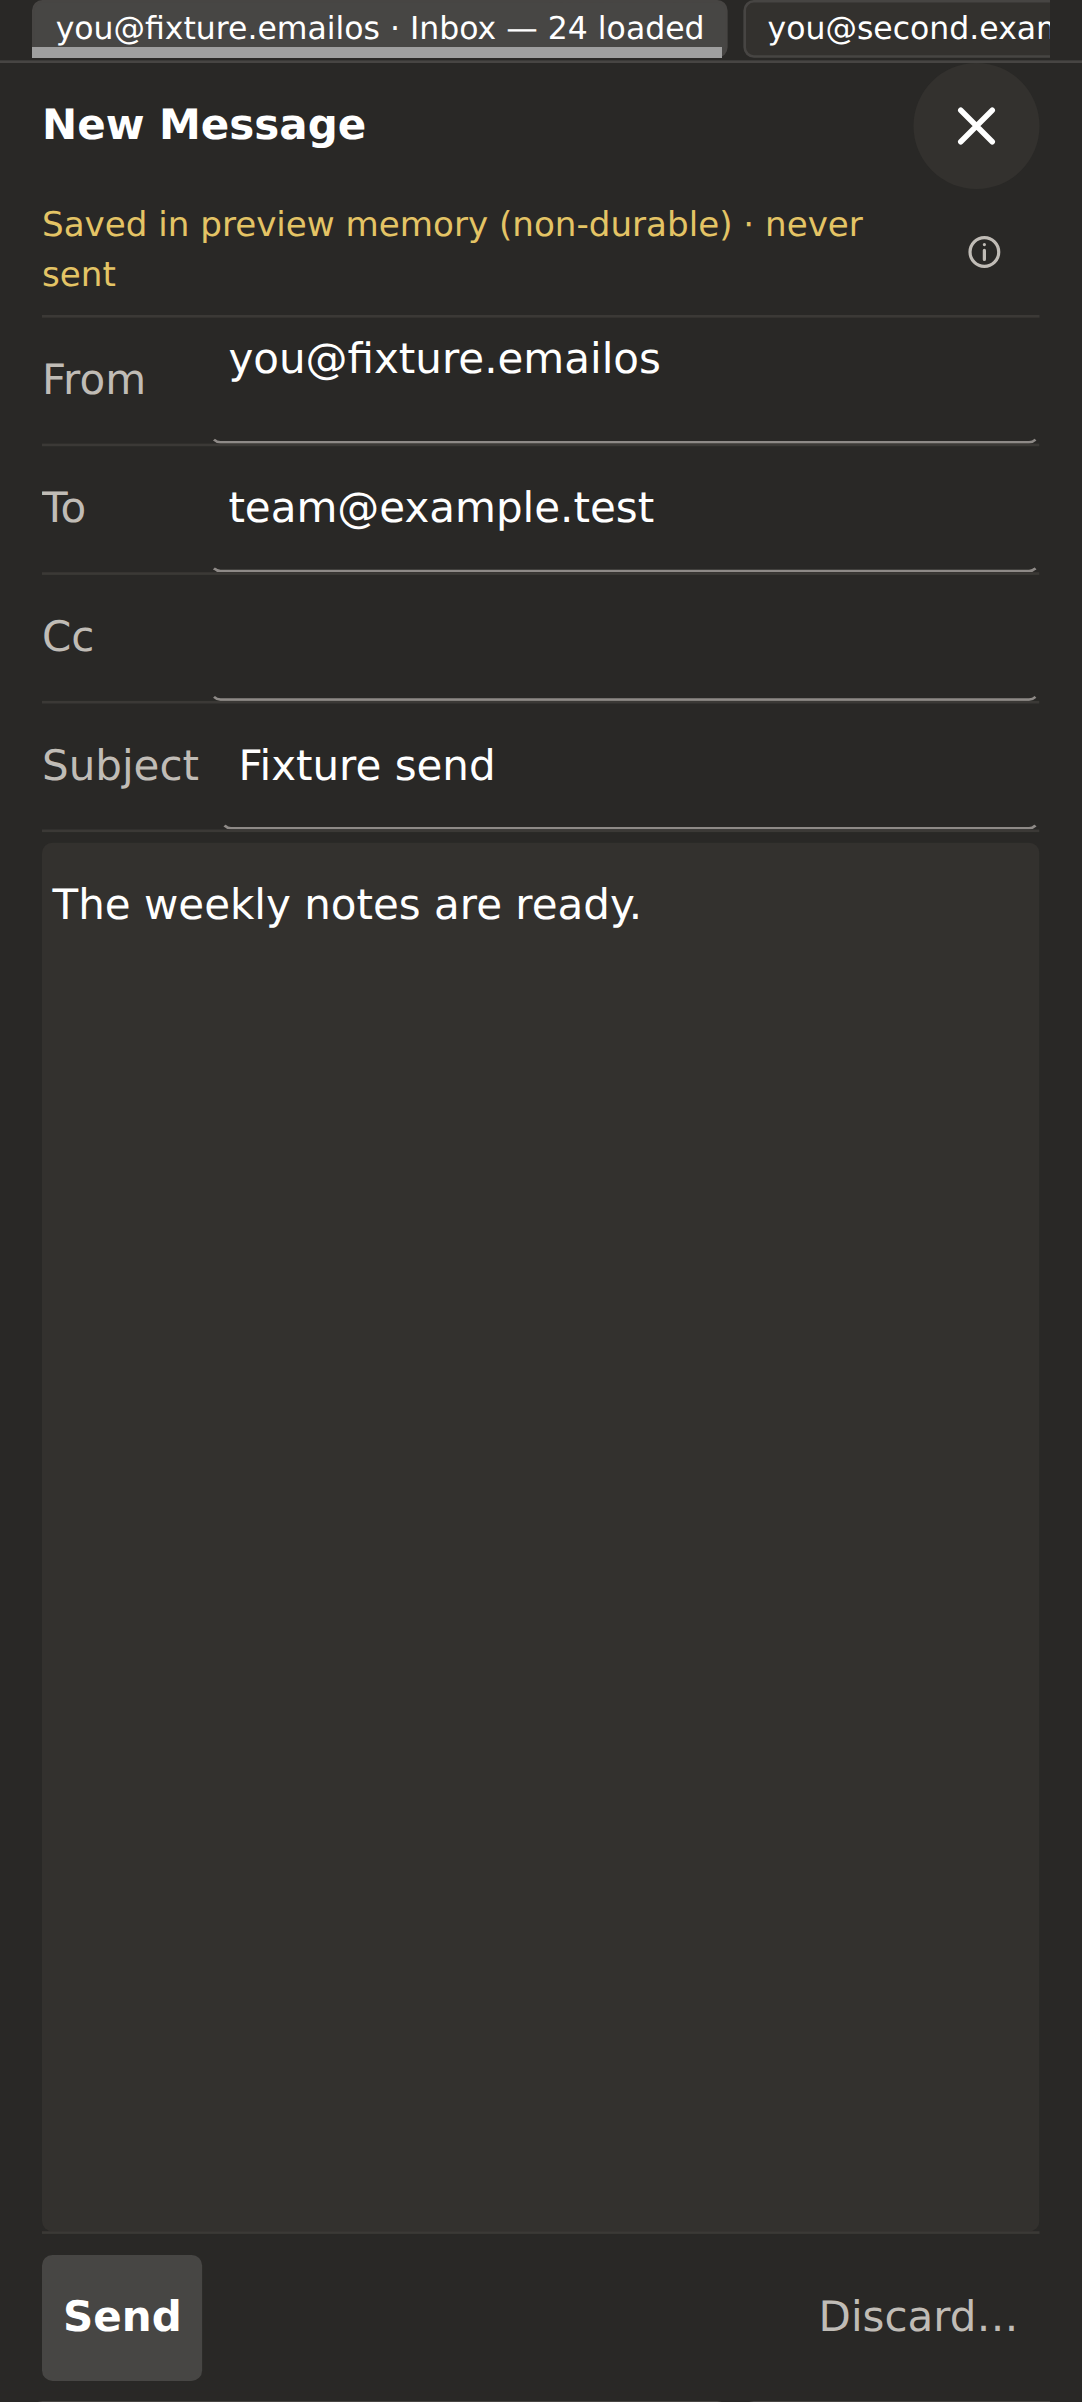
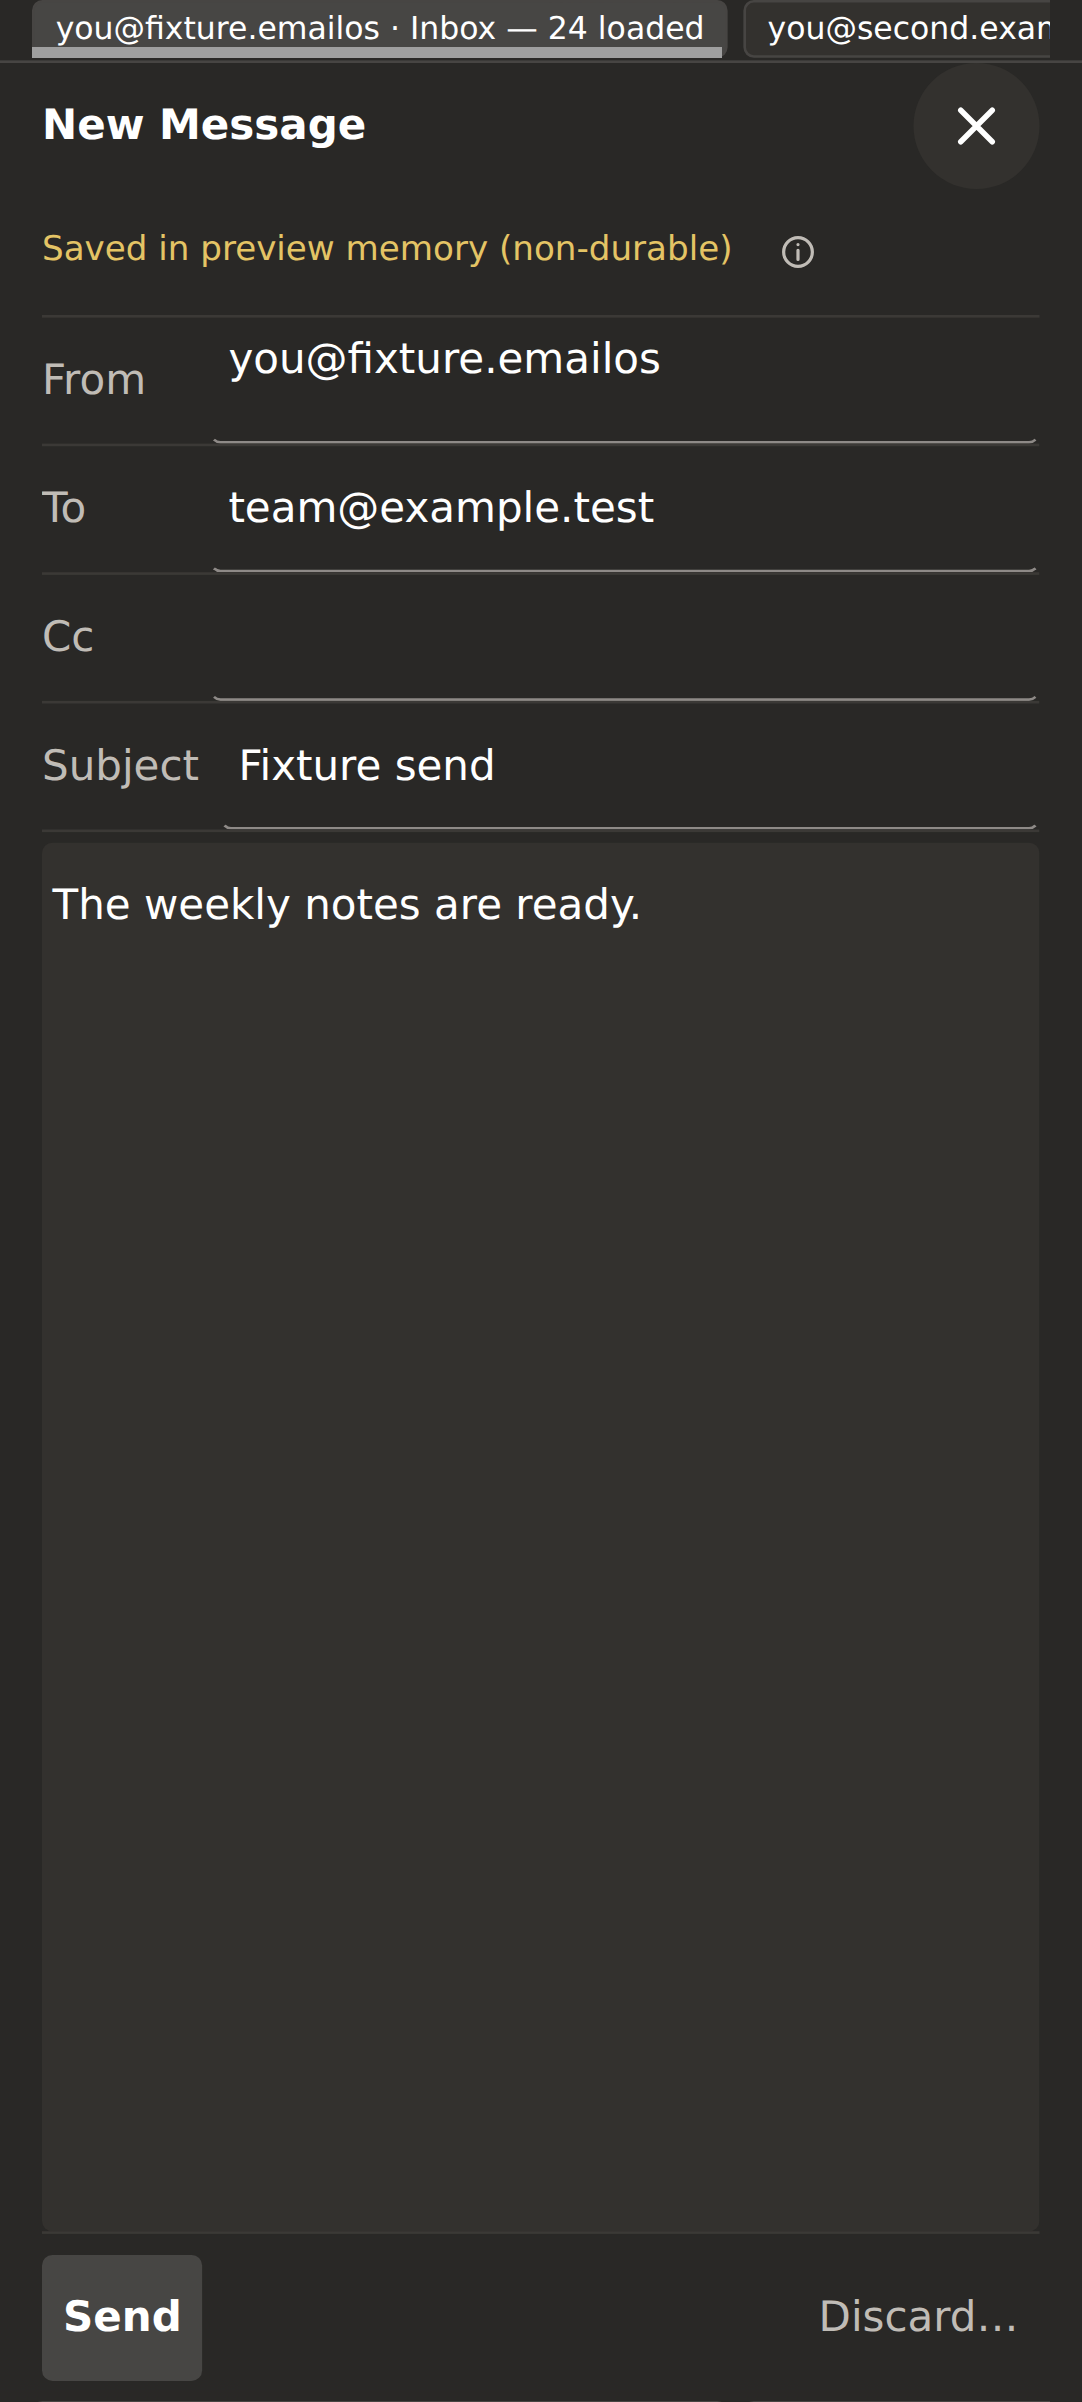
Explain changed reply subjects and capture confirmed send evidence

Changed region(s): [[0.0305, 0.0937, 0.671, 0.1249], [0.7015, 0.0937, 0.7625, 0.1249], [0.8845, 0.0937, 0.915, 0.1249]]

diff --git a/src/components/DraftEditorCore.vue b/src/components/DraftEditorCore.vue
@@ -45,6 +45,7 @@ const props = defineProps<{
   closeError: string | null;
   compact?: boolean;
   sender?: string | null;
+  replySubjectChanged?: boolean;
   sendAvailable?: boolean;
   sendBusy?: boolean;
   /** Which field receives focus when the editor appears (keyboard-first). */
@@ -104,11 +105,17 @@ const isReply = computed(() => props.variant === 'reply');
 /** Plain-language detail for the title and the body's hidden description. */
 const LOCAL_DETAIL = 'Local plain-text draft. Nothing is sent. Recipients are stored as typed and are not validated. Bcc, reply-all and rich text are not supported.';
 /** Settled states that read "<state> · never sent"; the first two stay calm (Ash). */
+const draftDetail = computed(() => props.sendAvailable
+  ? 'Local plain-text draft. Send checks the recipients before queueing.'
+  : LOCAL_DETAIL);
 const SETTLED_CALM = new Set(['Saved locally', 'Draft loaded from this device']);
 const SETTLED_NON_DURABLE = new Set(['Saved in preview memory (non-durable)', 'Loaded from preview memory (non-durable)']);
 
 const statusLine = computed(() => {
   const status = props.status;
+  if (props.sendAvailable) {
+    return { text: status || 'Local draft', calm: !status || SETTLED_CALM.has(status) };
+  }
   if (!status) return { text: 'Local draft · never sent', calm: true };
   if (SETTLED_CALM.has(status)) return { text: `${status} · never sent`, calm: true };
   if (SETTLED_NON_DURABLE.has(status)) return { text: `${status} · never sent`, calm: false };
@@ -271,7 +278,7 @@ watch(() => props.confirmDiscard || props.confirmReload, async (open) => {
           class="draft-status"
           :class="{ 'draft-status-calm': statusLine.calm }"
           data-test="draft-status"
-          :title="LOCAL_DETAIL"
+          :title="draftDetail"
         >{{ statusLine.text }}</p>
         <button
           type="button"
@@ -285,7 +292,7 @@ watch(() => props.confirmDiscard || props.confirmReload, async (open) => {
         <span class="visually-hidden" role="status" data-test="draft-status-announce">{{ announcement }}</span>
       </div>
     </div>
-    <p v-if="caveatOpen" :id="ids.caveat" class="composer-caveat" data-test="draft-caveat">{{ LOCAL_DETAIL }}</p>
+    <p v-if="caveatOpen" :id="ids.caveat" class="composer-caveat" data-test="draft-caveat">{{ draftDetail }}</p>
     <p v-if="props.error" role="alert" data-test="draft-error">{{ describe(props.error) }}</p>
     <p v-if="props.createError" role="alert" data-test="draft-create-error">{{ describe(props.createError) }}</p>
     <p v-if="props.closeError" role="alert" data-test="draft-close-error">{{ props.closeError }}</p>
@@ -343,7 +350,7 @@ watch(() => props.confirmDiscard || props.confirmReload, async (open) => {
           :disabled="fieldsDisabled()"
           @input="emit('setField', 'bodyText', ($event.target as HTMLTextAreaElement).value); fitBody()"
         ></textarea>
-        <span :id="ids.detail" class="visually-hidden" data-test="draft-local-detail">{{ LOCAL_DETAIL }}</span>
+        <span :id="ids.detail" class="visually-hidden" data-test="draft-local-detail">{{ draftDetail }}</span>
       </div>
     </div>
     <slot name="context" />
@@ -372,6 +379,7 @@ watch(() => props.confirmDiscard || props.confirmReload, async (open) => {
     <!-- Footer: one primary action. "Save and close" is the old Close editor: it
          still waits for the protected flush and stays open with the error if the
          flush fails. Esc does the same. There is no Send. -->
+    <p v-if="props.sendAvailable && props.replySubjectChanged" class="composer-caveat" role="note">This reply will start a new conversation.</p>
     <footer class="composer-footer">
       <button v-if="props.sendAvailable && props.sender" type="button" class="composer-primary" data-test="send-draft" :disabled="props.sendBusy || fieldsDisabled() || props.creating || !props.activeRef?.draftId" @click="emit('send')">{{ props.sendBusy ? 'Sending…' : 'Send' }}</button>
       <button v-if="!props.compact" type="button" class="composer-primary" data-test="close-composer" aria-keyshortcuts="Escape" :disabled="closeDisabled" @click="emit('closeEditor')">Save and close</button>

diff --git a/src/composables/useDrafts.ts b/src/composables/useDrafts.ts
@@ -56,6 +56,11 @@ export function useDrafts(client: MailClient, accountId: ComputedRef<string | nu
   const draftSubscriptionError = ref<MailError | null>(null);
   const activeRef = ref<DraftRef | null>(null);
   const activeSource = ref<DraftSource | null>(null);
+  const sourceSubject = ref<string | null>(null);
+  const replySubjectChanged = computed(() => {
+    const normalize = (subject: string) => subject.trim().replace(/^re:/i, '').trim();
+    return sourceSubject.value !== null && normalize(sourceSubject.value) !== normalize(content.value.subject);
+  });
   const content = ref<DraftContent>(copyContent(EMPTY_CONTENT));
   const revision = ref(0);
   const acknowledged = ref<DraftContent>(copyContent(EMPTY_CONTENT));
@@ -145,6 +150,7 @@ export function useDrafts(client: MailClient, accountId: ComputedRef<string | nu
     clearTimer();
     activeRef.value = null;
     activeSource.value = null;
+    sourceSubject.value = null;
     content.value = copyContent(EMPTY_CONTENT);
     acknowledged.value = copyContent(EMPTY_CONTENT);
     revision.value = 0;
@@ -253,6 +259,7 @@ export function useDrafts(client: MailClient, accountId: ComputedRef<string | nu
         const hasLocalEdits = !sameContent(beforeLoad, initialContent);
         acknowledged.value = copyContent(initialContent);
         activeSource.value = saved.source;
+        sourceSubject.value = saved.replyLink?.sourceSubject ?? null;
         createEnvelope = null;
         createError.value = null;
         creating.value = false;
@@ -532,6 +539,7 @@ export function useDrafts(client: MailClient, accountId: ComputedRef<string | nu
     const token = ++generation;
     activeRef.value = { accountId: accountId.value, draftId: '' };
     activeSource.value = source;
+    sourceSubject.value = null;
     content.value = copyContent(initialContent ?? EMPTY_CONTENT);
     acknowledged.value = copyContent(initialContent ?? EMPTY_CONTENT);
     revision.value = 0;
@@ -574,6 +582,7 @@ export function useDrafts(client: MailClient, accountId: ComputedRef<string | nu
         if (token !== generation || ref.accountId !== accountId.value || !stillWanted()) return false;
         activeRef.value = { ...draft.ref };
         activeSource.value = draft.source;
+        sourceSubject.value = draft.replyLink?.sourceSubject ?? null;
         content.value = copyContent(draft.content);
         acknowledged.value = copyContent(draft.content);
         revision.value = draft.revision;
@@ -619,6 +628,7 @@ export function useDrafts(client: MailClient, accountId: ComputedRef<string | nu
       content.value = copyContent(draft.content);
       acknowledged.value = copyContent(draft.content);
       activeSource.value = draft.source;
+      sourceSubject.value = draft.replyLink?.sourceSubject ?? null;
       conflict.value = false;
       error.value = null;
       hasReceipt.value = false;
@@ -715,6 +725,7 @@ export function useDrafts(client: MailClient, accountId: ComputedRef<string | nu
       retireSaveLane();
       activeRef.value = { ...receipt.ref };
       activeSource.value = saved.source;
+      sourceSubject.value = saved.replyLink?.sourceSubject ?? null;
       revision.value = saved.revision;
       acknowledged.value = copyContent(saved.content);
       hasReceipt.value = true;
@@ -1079,6 +1090,6 @@ export function useDrafts(client: MailClient, accountId: ComputedRef<string | nu
     isVisible, canCancelReplyPreparation, recoveryRequired,
     openingRefs, discardingRefs, transitioning, deletePending, dirty, hasUnsavedWork, statusLabel, refresh, openNew, openDraft, flush, flushAndClose,
     retrySave, reloadSaved, cancelReload, saveAsNew, askDiscard, discard, discardListed, cancelDiscard, cancelReplyPreparation, setContent, scheduleSave, setTransitioning,
-    retryDraftSubscription, retryClose, retryCloseSetup, admitSend,
+    retryDraftSubscription, retryClose, retryCloseSetup, admitSend, replySubjectChanged,
   };
 }

diff --git a/tests/drafts.component.test.ts b/tests/drafts.component.test.ts
@@ -512,7 +512,7 @@ describe('local plain-text drafts UI', () => {
     await flushPromises();
     expect(commands).toHaveLength(2);
     expect(commands[1]).toEqual(commands[0]);
-    expect((w.find('[data-test="draft-status"]').text())).toBe('Saved in preview memory (non-durable) · never sent');
+    expect((w.find('[data-test="draft-status"]').text())).toBe('Saved in preview memory (non-durable)');
     expect(await fake.getDraft(commands[0]!.ref)).toMatchObject({ revision: 2, content: { bodyText: 'saved but not yet verified' } });
   });
 
@@ -784,7 +784,7 @@ describe('local plain-text drafts UI', () => {
       const remaining = await fake.listDrafts();
       expect(remaining).toHaveLength(1);
       expect((await fake.getDraft(remaining[0]!.ref)).content.bodyText).toBe('latest exact recovery buffer');
-      expect(w.find('[data-test="draft-status"]').text()).toBe('Saved in preview memory (non-durable) · never sent');
+      expect(w.find('[data-test="draft-status"]').text()).toBe('Saved in preview memory (non-durable)');
       const unload = new Event('beforeunload', { cancelable: true }) as BeforeUnloadEvent;
       window.dispatchEvent(unload);
       expect(unload.defaultPrevented).toBe(false);
@@ -932,7 +932,7 @@ describe('local plain-text drafts UI', () => {
     else oldRetry.resolve({ ref: original.ref, revision: original.revision + 1, savedAt: '2025-01-01T00:00:00Z' });
     await flushPromises();
     expect(w.find('[data-test="draft-error"]').exists()).toBe(false);
-    expect(w.find('[data-test="draft-status"]').text()).toBe('Saved in preview memory (non-durable) · never sent');
+    expect(w.find('[data-test="draft-status"]').text()).toBe('Saved in preview memory (non-durable)');
     const unload = new Event('beforeunload', { cancelable: true }) as BeforeUnloadEvent;
     window.dispatchEvent(unload);
     expect(unload.defaultPrevented).toBe(false);
@@ -1357,7 +1357,7 @@ describe('local plain-text drafts UI', () => {
     window.dispatchEvent(event);
     expect(event.defaultPrevented).toBe(true);
     await flushPromises();
-    expect(fake.controls.listenerCount()).toBe(2);
+    expect(fake.controls.listenerCount()).toBe(1);
     expect(fake.controls.draftListenerCount()).toBe(1);
     expect(fake.controls.closeListenerCount()).toBe(1);
     w.unmount();

diff --git a/src/App.vue b/src/App.vue
@@ -2625,7 +2625,7 @@ const searchSyntaxEditHint = computed(() =>
                non-inert while composing. -->
           <Teleport v-if="composeCardOpen && !readerOpen" :to="appRoot ?? undefined" :disabled="layoutMode !== 'compact'">
           <ComposeCard
-            :send-available="sendAvailable" :send-busy="sendBusy" :sender="accountStatus?.account?.emailAddress" @send="sendDraft"
+            :send-available="sendAvailable" :reply-subject-changed="drafts.replySubjectChanged.value" :send-busy="sendBusy" :sender="accountStatus?.account?.emailAddress" @send="sendDraft"
             :compact="layoutMode === 'compact'"
             :recipient-label="composeRecipientLabel"
             :notice="cardNotice"
@@ -2814,7 +2814,7 @@ const searchSyntaxEditHint = computed(() =>
             <Teleport :to="appRoot ?? undefined" :disabled="layoutMode !== 'compact'">
             <ReplyComposer
               v-if="replyComposerOpen && readerOpen"
-              :send-available="sendAvailable" :send-busy="sendBusy" :sender="accountStatus?.account?.emailAddress" @send="sendDraft"
+              :send-available="sendAvailable" :reply-subject-changed="drafts.replySubjectChanged.value" :send-busy="sendBusy" :sender="accountStatus?.account?.emailAddress" @send="sendDraft"
               :compact="layoutMode === 'compact'"
               :recipient-label="replyRecipientLabel"
               :recipient-mailbox="replyRecipientMailbox"
@@ -2858,7 +2858,7 @@ const searchSyntaxEditHint = computed(() =>
                  like the reply composer above it. -->
             <Teleport v-if="composeCardOpen && readerOpen" :to="appRoot ?? undefined" :disabled="layoutMode !== 'compact'">
             <ComposeCard
-              :send-available="sendAvailable" :send-busy="sendBusy" :sender="accountStatus?.account?.emailAddress" @send="sendDraft"
+              :send-available="sendAvailable" :reply-subject-changed="drafts.replySubjectChanged.value" :send-busy="sendBusy" :sender="accountStatus?.account?.emailAddress" @send="sendDraft"
               :compact="layoutMode === 'compact'"
               :recipient-label="composeRecipientLabel"
               :notice="cardNotice"

diff --git a/tests/layout/mobile-screenshots.rendered.test.ts b/tests/layout/mobile-screenshots.rendered.test.ts
@@ -151,6 +151,20 @@ describe.skipIf(!chromePath || !outputDir)('compact layout review screenshots', 
       await shot(`${name}-send-undo`);
       await click('[data-test="send-notice"] button');
       await waitFor(`app.querySelector('[data-test="draft-subject"]')?.value === 'Fixture send'`, 'restored draft');
+      await click('[data-test="send-draft"]');
+      await waitFor(`app.querySelector('[data-test="send-notice"] button')`, 'second send hold');
+      await waitFor(`!app.querySelector('[data-test="send-notice"] button')`, 'window expiry');
+      if (compact) {
+        await click('[data-test="mobile-menu"]');
+        await chooseDrawerRow('Activity');
+      } else {
+        await click('[data-test="rail-activity"]');
+      }
+      await waitFor(`app.querySelector('[data-test="send-confirmed"] button')`, 'confirmed send');
+      await shot(`${name}-send-activity`);
+      await click('[data-test="send-confirmed"] button');
+      await waitFor(`app.querySelector('.reader')?.textContent?.includes('The weekly notes are ready.')`, 'sent conversation');
+      await shot(`${name}-send-confirmed`);
     }
     await viewport(PHONE_VIEWPORT.width, PHONE_VIEWPORT.height, true);
   }, 40_000);

diff --git a/tests/layout/mobile-app.test.ts b/tests/layout/mobile-app.test.ts
@@ -354,7 +354,7 @@ describe('App compact and regular frame', () => {
     expect(wrapper.get('[data-test="mobile-top-bar"]').attributes('inert')).toBeDefined();
     expect(wrapper.get('.app-main').attributes('inert')).toBeDefined();
     expect(wrapper.get('[data-test="mobile-bottom-region"]').attributes('inert')).toBeDefined();
-    expect(wrapper.get('[data-test="draft-status"]').text()).toContain('never sent');
+    expect(wrapper.get('[data-test="draft-status"]').text()).toBe('Saved in preview memory (non-durable)');
     expect(wrapper.find('[data-test="close-composer"]').exists()).toBe(false);
     expect(wrapper.get('[data-test="compose-sheet-close"]').attributes('aria-label')).toBe('Save and close');
     expect(wrapper.get('[data-test="compose-sheet-close"]').attributes('title')).toBe('Save and close');

diff --git a/tests/drafts/context.test.ts b/tests/drafts/context.test.ts
@@ -52,7 +52,7 @@ describe('entering and leaving the Drafts context', () => {
     expect(rail(w).attributes('aria-current')).toBe('page');
     expect(rail(w).attributes('aria-expanded')).toBeUndefined();
     expect(w.get('[data-test="central-surface"]').attributes('aria-label')).toBe('Drafts');
-    expect(w.get('[data-test="drafts-coverage"]').text()).toContain('Local to this device · never sent');
+    expect(w.get('[data-test="drafts-coverage"]').text()).toBe('Local to this device');
     expect(rows(w)).toHaveLength(2);
     expect(w.find('[data-test="draft-list"] li[aria-current="true"]').exists()).toBe(true);
     expect(document.activeElement).toBe(rows(w)[0]!.element);

diff --git a/src/components/ReplyComposer.vue b/src/components/ReplyComposer.vue
@@ -49,6 +49,7 @@ const props = defineProps<{
   closeError: string | null;
   compact?: boolean;
   sender?: string | null;
+  replySubjectChanged?: boolean;
   sendAvailable?: boolean;
   sendBusy?: boolean;
 }>();
@@ -100,6 +101,7 @@ const headingTarget = computed<{ text: string } | null>(() => {
         variant="reply"
         :sender="props.sender"
       :send-available="props.sendAvailable"
+      :reply-subject-changed="props.replySubjectChanged"
       :send-busy="props.sendBusy"
       @send="emit('send')"
       :compact="props.compact"

diff --git a/src/components/ComposeCard.vue b/src/components/ComposeCard.vue
@@ -45,6 +45,7 @@ const props = defineProps<{
   closeError: string | null;
   compact?: boolean;
   sender?: string | null;
+  replySubjectChanged?: boolean;
   sendAvailable?: boolean;
   sendBusy?: boolean;
 }>();
@@ -89,6 +90,7 @@ function onSetField(field: keyof DraftContent, value: string): void {
       variant="new"
       :sender="props.sender"
       :send-available="props.sendAvailable"
+      :reply-subject-changed="props.replySubjectChanged"
       :send-busy="props.sendBusy"
       @send="emit('send')"
       :compact="props.compact"
